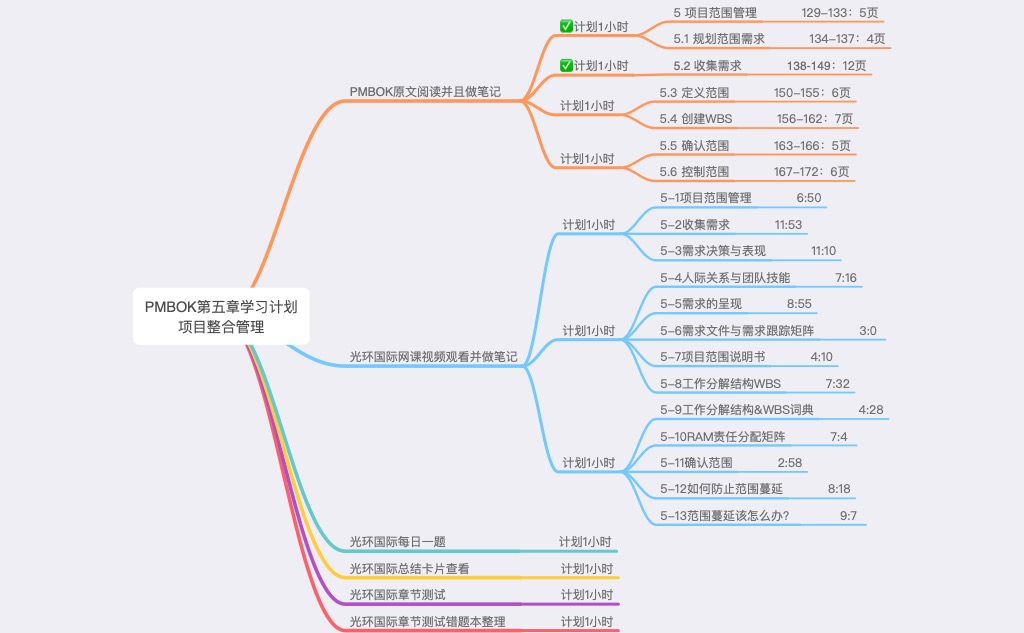
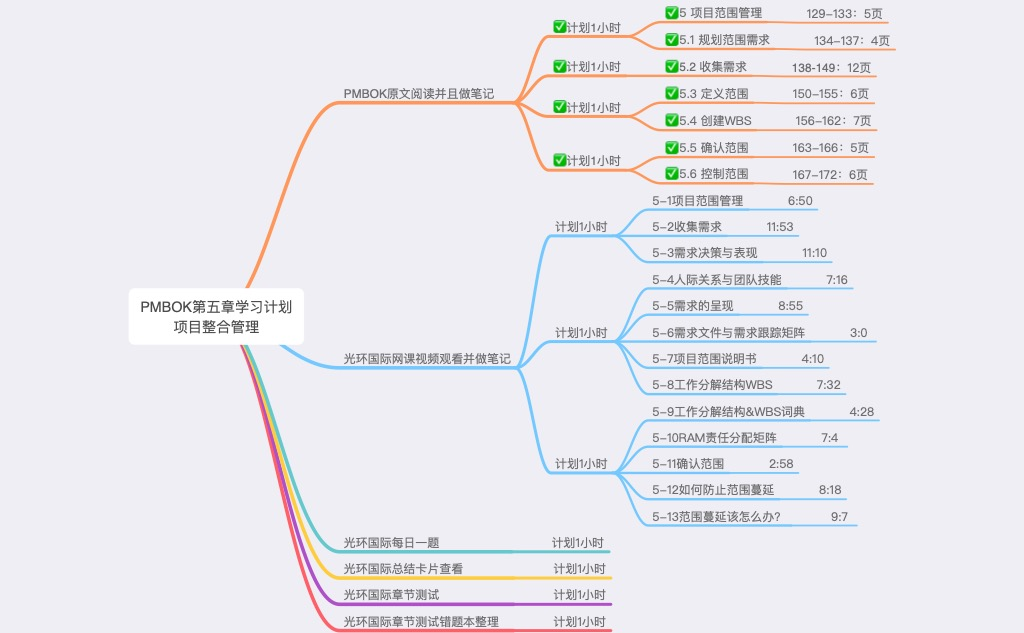
完成第五章的阅读笔记

diff --git a/PMBOK指南（第六版）阅读笔记/第一部分 项目管理知识体系指南（PMBOK指南）/【2020.02.20】5. 项目范围管理.md b/PMBOK指南（第六版）阅读笔记/第一部分 项目管理知识体系指南（PMBOK指南）/【2020.02.20】5. 项目范围管理.md
@@ -663,20 +663,71 @@
 		- 需求跟踪矩阵：根据验收结果更新需求跟踪矩阵，包括所采用的验收方法及其使用结果
 
 ## 控制范围
+
+- 控制范围：监督项目和产品的范围状态，管理范围基准变更的过程
+- 控制范围过程的作用：在整个项目期间保持对范围基准的维护
+- 控制范围过程需要在整个项目期间开展
+- 控制范围过程的输入、工具与技术和输出
+	![控制范围过程的输入、工具与技术和输出](img/img-5-14.png)
+- 控制范围过程的数据流向图
+	![控制范围过程的数据流向图](img/img-5-15.png)
+- 控制项目范围确保所有变更请求、推荐的纠正措施或预防措施都通过实施整体变更控制过程进行处理
+- 在变更实际发生时，也要采用控制范围过程来管理这些变更
+- 控制范围过程应该与其他控制过程协调开展
+- 范围蔓延：未经控制的产品或项目范围的扩大（未对时间、成本和资源做相应调整）
+- 变更不可避免，因此在每个项目上，都必须强制执行实施某种形式的变更控制
+
 ### 控制范围：输入
 
 1. 项目管理计划
+	- 项目管理计划组件包括（但不限于）：
+		- 范围管理计划：记录了如何控制项目和产品范围
+		- 需求管理计划：记录了如何管理项目需求
+		- 变更管理计划：定义了管理项目变更的过程
+		- 配置管理计划：定义了哪些是配置项，哪些配置项需要正式变更控制，以及针对这些配置项的变更控制过程
+		- 范围基准：用范围基准与实际结果比较，以决定是否有必要进行变更、采取纠正措施或预防措施
+		- 绩效测量基准：使用挣值分析时，将绩效测量基准与实际结果比较，以决定是否有必要进行变更、采取纠正措施或预防措施
 2. 项目文件
+	- 可作为本过程输入的项目文件包括（但不限于）：
+		- 经验教训登记册：在项目早期获得的经验教训可以运用到后期阶段，以改进范围控制
+		- 需求文件：需求文件用于发现任何对商定的项目或产品范围的偏离
+		- 需求跟踪矩阵：需求跟踪矩阵有助于探查任何变更或对范围基准的任何偏离对项目目标的影响，它还可以提供受控需求的状态
 3. 工作绩效数据
+	- 工作绩效数据可能包括收到的变更请求的数量、接受的变更请求的数量，或者核实、确认和完成的可交付成果的数量。
 4. 组织过程资产
+	- 能够影响控制范围过程的组织过程资产包括（但不限于）：
+		- 现有的、正式和非正式的，与范围控制相关的政策、程序和指南
+		- 可用于监督和报告的方法与模板
 
 ### 控制范围：工具与技术
 
 1. 数据分析
+	- 可用于控制范围过程的数据分析技术包括（但不限于）：
+		- 偏差分析：偏差分析用于将基准与实际结果进行比较，以确定偏差是否处于临界值区间内或是否有必要采取纠正或预防措施。
+		- 趋势分析：趋势分析旨在审查项目绩效随时间的变化情况，以半段绩效是正在改善还是正在恶化
+	- 确定偏离范围基准的原因和程度，并决定是否需要采取纠正或预防措施，是项目范围控制的重要工作
 
 ### 控制范围：输出
 
 1. 工作绩效信息
+	- 本过程产生的工作绩效信息是有关项目和产品范围实施情况（对照范围基准）的、相互关联且与各种背景结合的信息，包括收到的变更分类、识别的范围偏差和原因、偏差进度和成本的影响，以及对将来范围绩效的预测
 2. 变更请求
+	- 分析项目绩效后，可能会就阀内基准和进度基准，或项目管理计划的其他组成部分提出变更请求。
+		- 变更请求需要经过实施整体变更控制过程的审查和处理
 3. 项目管理计划更新
+	- 项目管理计划的任何变更都以变更请求的形式提出，且通过组织的变更控制过程进行处理。
+	- 可能需要变更请求的项目管理计划组成部分包括（但不限于）：
+		- 范围管理计划：可以更新范围管理计划，以反映范围管理方式的变更
+		- 范围基准：在针对范围、范围说明书、WBS或WBS词典的变更获得批准后，需要对范围基准做出相应的变更。
+			- 有时范围偏差太过严重，以至于需要修订范围基准，以便绩效测量提供现实可行的依据
+		- 进度基准：在针对范围、资源或进度估算的变更获得批准后，需要对进度基准做出相应的变更。
+			- 有时进度偏差太过严重，以至于需要修订进度基准，以便为绩效测量提供现实可行的依据
+		- 成本基准：在针对范围、资源或成本估算的变更获得批准后，需要对成本基准做出相应的变更。
+			- 有时成本偏差太过严重，以至于需要修订成本基准，以便为绩效测量提供现实可行的依据
+		- 绩效测量基准：在针对范围、进度绩效或成本估算的变更获得批准后，需要对绩效测量基准做出相应的变更。
+		- 有时绩效偏差太过严重，需要提出变更请求来修订绩效测量基准，以便为绩效测量提供现实可行的依据
 4. 项目文件更新
+	- 可在本过程更新的项目文件包括（但不限于）：
+		- 经验教训登记册：更新经验教训登记册，以记录控制范围的有效技术，以及造成偏差的原因和选择的纠正措施
+		- 需求文件：可以通过增加或修改需求而更新需求文件
+		- 需求跟踪矩阵：应该随同需求文件的更新而更新需求跟踪矩阵
